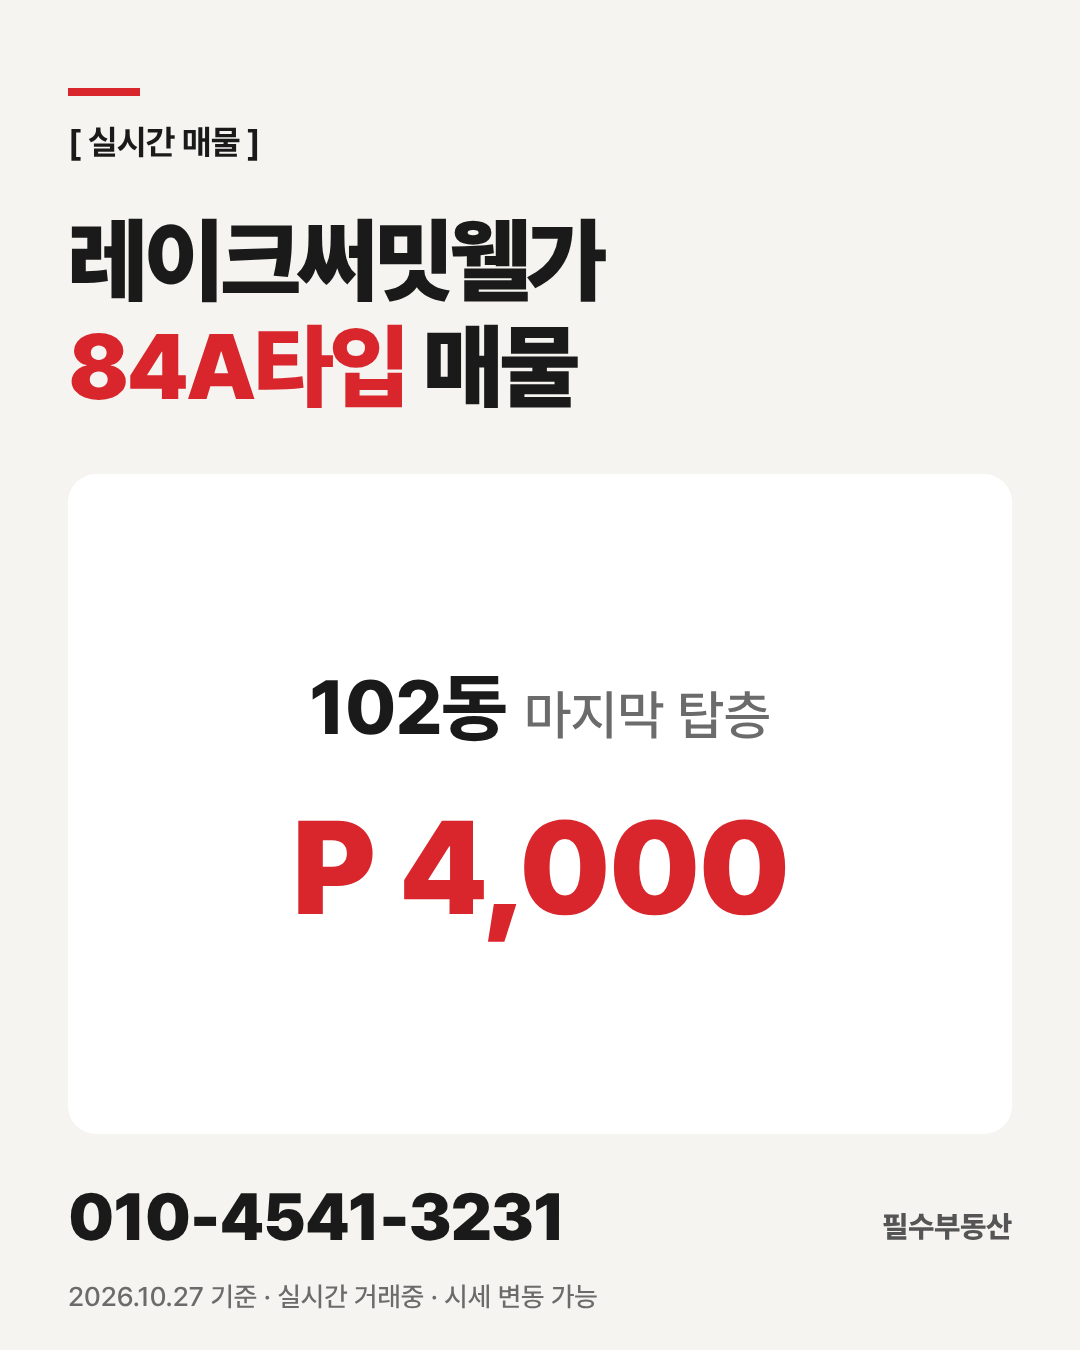
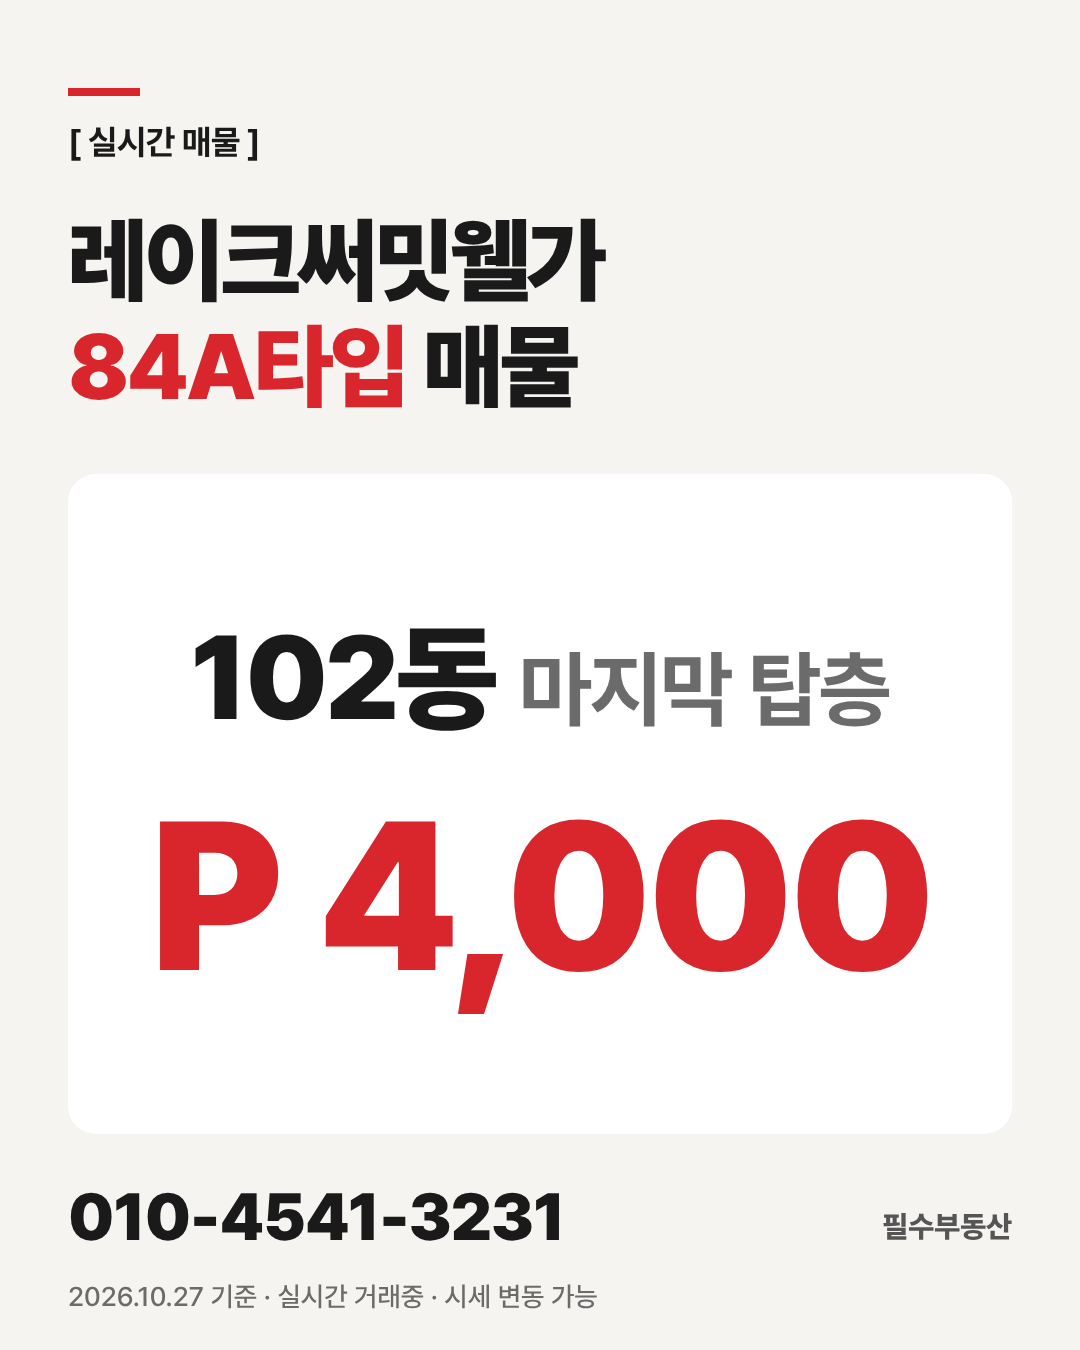
Enlarge single-listing card text and auto-fit long lines
One-listing cards had a lot of empty space; dong/floor and price are now
much larger, with the dong/floor line and the price each shrinking
independently only when they would not fit on one line.

Claude-Session: https://claude.ai/code/session_01EfV3PaWrze3QJssuG4HXQq

Changed region(s): [[0.1222, 0.5911, 0.8556, 0.7778], [0.1833, 0.4667, 0.825, 0.56]]

diff --git a/card/template.html b/card/template.html
@@ -27,11 +27,14 @@
   .badge { display: inline-block; margin-left: 16px; padding: 6px 16px 8px; border-radius: 12px;
            background: var(--red); color: #fff; font-size: 34px; font-weight: 800; vertical-align: 6px; }
   /* 매물이 1개일 때: 가운데 정렬로 크게 */
-  .box.single .row { flex-direction: column; justify-content: center; gap: 36px; }
-  .box.single .dong { font-size: 76px; }
-  .box.single .floor { font-size: 54px; }
-  .box.single .badge { font-size: 44px; padding: 8px 22px 10px; }
-  .box.single .price { font-size: 132px; font-weight: 900; letter-spacing: -3px; }
+  /* --k: 글자 배율. 동·층이 한 줄에 안 들어가면 render() 에서 줄인다 */
+  .box.single { --k: 1; --kp: 1; }
+  .box.single .row { flex-direction: column; justify-content: center; gap: calc(44px * var(--k)); }
+  .box.single .row > div:first-child { white-space: nowrap; }
+  .box.single .dong { font-size: calc(118px * var(--k)); font-weight: 900; letter-spacing: -3px; }
+  .box.single .floor { font-size: calc(84px * var(--k)); font-weight: 700; margin-left: calc(24px * var(--k)); letter-spacing: -2px; }
+  .box.single .badge { font-size: calc(56px * var(--k)); padding: 10px 26px 12px; vertical-align: 12px; }
+  .box.single .price { font-size: calc(210px * var(--kp)); font-weight: 900; letter-spacing: -6px; line-height: 1; white-space: nowrap; }
   .box.dense { padding-top: 10px; padding-bottom: 10px; }
   .box.dense .dong { font-size: 50px; }
   .box.dense .floor { font-size: 36px; }
@@ -104,6 +107,12 @@
         `<div class="row"><div><span class="dong">${esc(l.dong)}</span><span class="floor">${floor(l)}</span>${badge(l)}</div>` +
         `<div class="price">${esc(l.price)}</div></div>`).join('');
       box.classList.toggle('single', c.listings.length === 1);
+      if (c.listings.length === 1) {
+        const head = box.querySelector('.row > div'), max = box.clientWidth - 80;
+        for (let k = 1; head.scrollWidth > max && k > 0.5; k -= 0.02) box.style.setProperty('--k', k.toFixed(2));
+        const price = box.querySelector('.price');
+        for (let k = 1; price.scrollWidth > max && k > 0.5; k -= 0.02) box.style.setProperty('--kp', k.toFixed(2));
+      }
       // 매물이 많으면 줄 간격이 좁아지므로 글자를 줄인다
       box.classList.toggle('dense', c.listings.length >= 7);
     }
